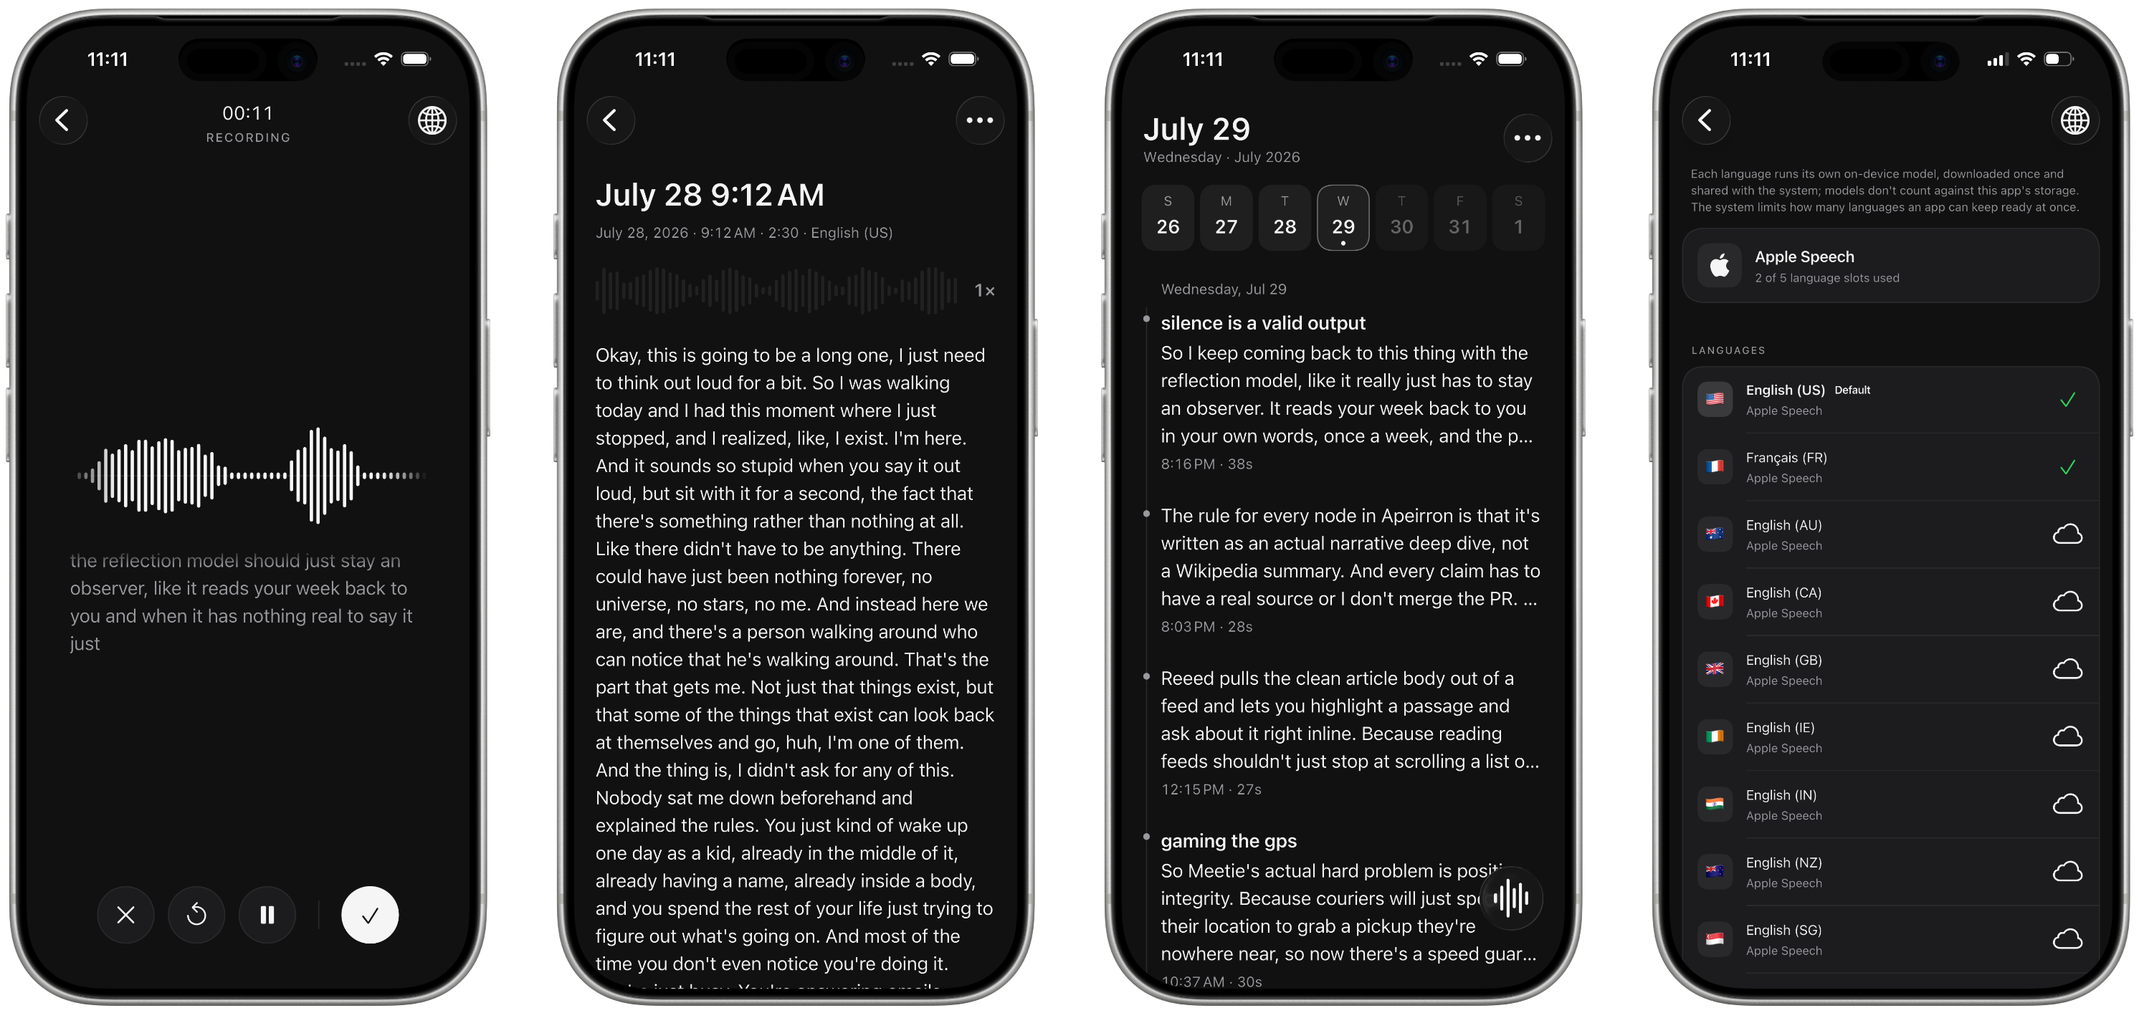
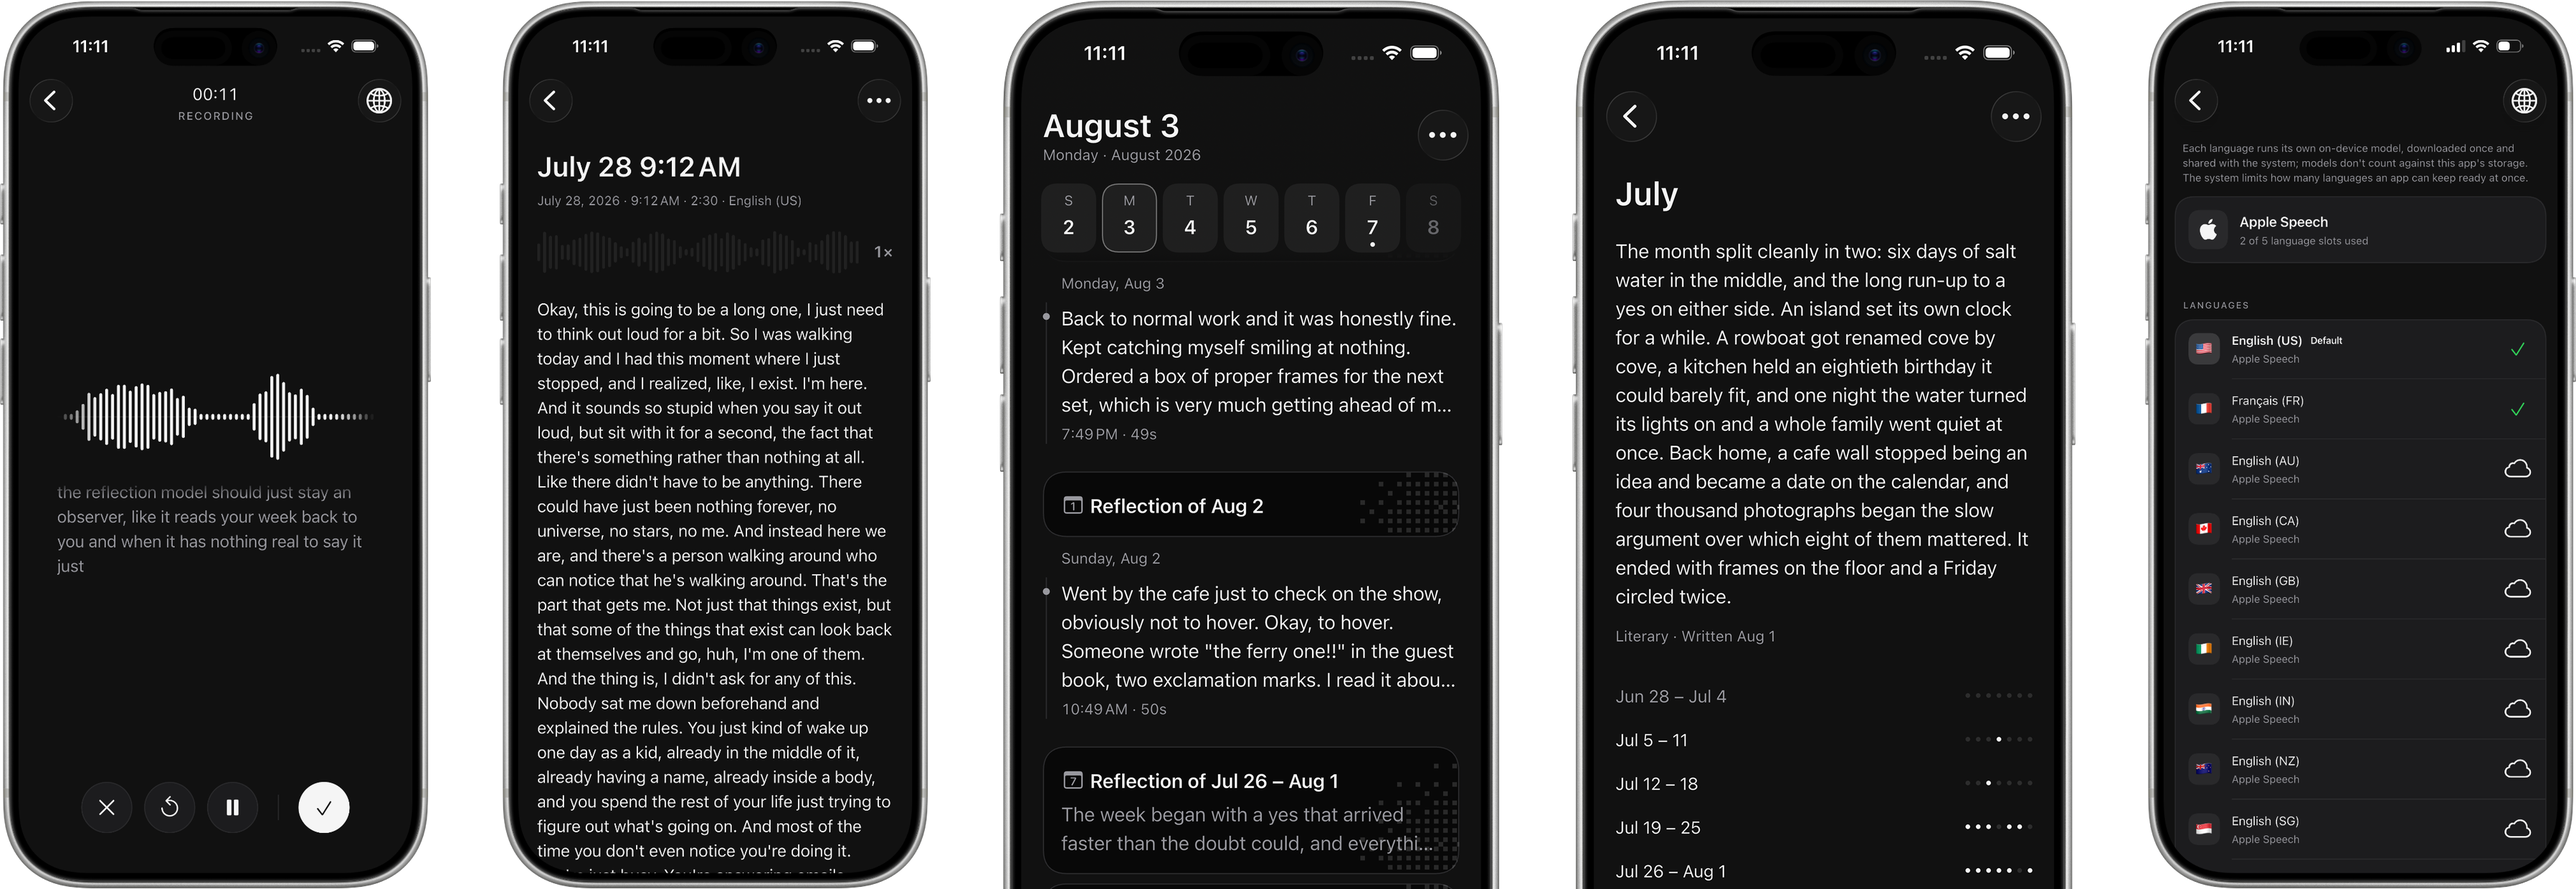
docs: show all five app screenshots in the readme

diff --git a/README.md b/README.md
@@ -14,7 +14,7 @@
 
 opentranscribe is a voice journal for iOS with no network layer. Capture, transcription, reflection, and storage all happen on the device, and there is no account, no sync, no telemetry, and no code path anywhere in the app that opens a socket. Airplane mode is not a supported mode, it is the only mode there is.
 
-<img alt="Recording with live text, a finished entry, the week, and the on-device language models" src="assets/readme/showcase.png" width="760">
+<img alt="Recording with live text, a finished entry, the week, a written reflection, and the on-device language models" src="assets/readme/showcase.png" width="830">
 
 Transcription and reflection run on-device behind swappable contracts, `TranscriptionEngine` and `ReflectionEngine`, each refused at construction unless it declares itself on-device. Recordings and entries stay encrypted in the app's own storage. How it fits together, and how to work on it, is in [CONTRIBUTING.md](CONTRIBUTING.md).
 
